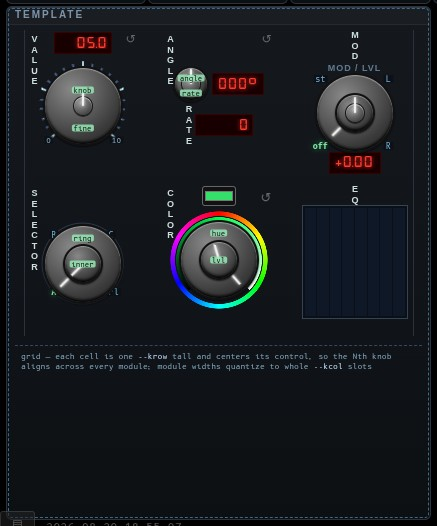
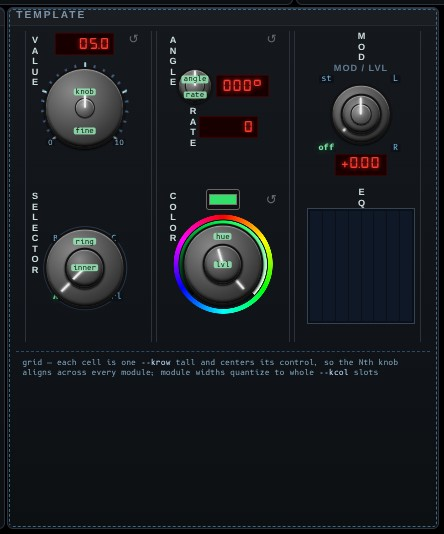
panel: the standard cell template is keyed on the grid, so every module gets it
Seven places in the panel build a .punit-grid of standard cells through the one
buildParamUnit — Parameters, MOD, EQ, Section, Spectro, Analysis and the
turtle's Physics. The CSS that IS that standard cell named three of them, by id
and by class. The other four were built by the same function and then styled by
nothing.

What that looked like in the Section module: its cells came out 106x186 and
position:static instead of 116x160 and relative, so the rules that pin the label
to the top-left and the reset to the top-right had nothing to position against
and both fell into normal flow — the label at x=48 and the reset button at x=46,
drawn on top of each other. The Spectro module was the same, 106x176 and static,
and nobody had reported that one.

Keying on .punit-grid instead of on #params is what makes "the standard cell"
true of every cell that is one. The grid is what all seven builders create, so a
new module cannot be added to the panel and left out of the template — which is
the failure this had, twice, quietly.

Section, Spectro, Physics, Parameters, MOD and EQ now all measure 116x160 and
relative, with the label at 4 and the reset at 99, and no cell has its label
overlapping its reset.

Also: the two Console dropdowns showed nothing until the pointer was over a row.
.selwrap>.selwin sets color:transparent so the marquee overlay can show the
current name instead of the native text — but color cascades into the <option>s,
[…]

diff --git a/pkg/attractor/panel.css b/pkg/attractor/panel.css
@@ -29,7 +29,7 @@ body.panel-raised #dock-controls{z-index:var(--z-panel-raised)!important;}
 .rst:hover{color:#fff;}
 /* Standard cell template: the reset button sits on the header line (with the
    LED readout), pinned to the cell's top-right — not tucked in the knob corner. */
-#params .punit>.rst,.vmcell>.rst,.axcol.axrot .rst{position:absolute;top:3px;right:3px;bottom:auto;left:auto;z-index:6;font-size:calc(12px*var(--kscale,1));line-height:1;}
+.punit-grid .punit>.rst,.vmcell>.rst,.axcol.axrot .rst{position:absolute;top:3px;right:3px;bottom:auto;left:auto;z-index:6;font-size:calc(12px*var(--kscale,1));line-height:1;}
 /* .rstcell is the same template for a selector cell that is not a .vmcell:
    .pcell is not a positioned ancestor by default, so the cell has to become
    one before its reset button can be pinned to the corner like every other. */
@@ -438,8 +438,21 @@ body.panel-raised #dock-controls{z-index:var(--z-panel-raised)!important;}
 .sect>.sect-hdr{cursor:grab;}
 .sect.sect-dragging{opacity:.55;outline:1px dashed var(--led,#c33);}
 .sect.sect-dragging>.sect-hdr{cursor:grabbing;}
-#params .punit,.physmodule .punit{}
 .modmodule .u-modlbl{display:none;}
+/* KEYED ON THE GRID, NOT ON #params.
+
+   These rules ARE the standard cell: a fixed 116x160 box, the label pinned to
+   its top-left, the numeric centered over the knob, the reset in the top-right
+   corner. Seven places in the panel build a .punit-grid of exactly these cells
+   — Parameters, MOD, EQ, Section, Spectro, Analysis and the turtle's physics —
+   and the selector used to name three of them by id and class. The other four
+   were built by the same buildParamUnit and then styled by nothing: the Section
+   module's cells came out position:static, which left its labels and its reset
+   buttons in normal flow and drawn on top of each other at x=48 and x=46.
+
+   The grid is what every one of those builders creates, so keying on it is what
+   makes "the standard cell template" true of every cell that is one, rather
+   than of the ones somebody remembered to add to a list. */
 /* Row alignment across a primary/MOD/EQ triad: every cell is a uniform height
    with its label pinned to the top and numeric/step pinned to the bottom, so the
    CONTROL (knob or EQ strip) is the only in-flow item and centers at the same Y
@@ -447,8 +460,8 @@ body.panel-raised #dock-controls{z-index:var(--z-panel-raised)!important;}
 /* Fixed cell width (= the grid track) so the label pins to the far-left and the
    LED centers over the knob exactly like the View / Position cells, instead of
    collapsing to content width (which crowded the label against the LED). */
-#params .punit,.modmodule .punit,.eqmodule .punit{position:relative;height:calc(160px*var(--kscale,1));width:calc(116px*var(--kscale,1));justify-content:center;box-sizing:border-box;}
-#params .punit>.punit-top,.modmodule .punit>.u-lbl,.eqmodule .punit>.u-lbl{position:absolute;top:2px;left:0;right:0;margin:0;z-index:3;}
+.punit-grid .punit{position:relative;height:calc(160px*var(--kscale,1));width:calc(116px*var(--kscale,1));justify-content:center;box-sizing:border-box;}
+.punit-grid .punit>.punit-top,.punit-grid .punit>.u-lbl{position:absolute;top:2px;left:0;right:0;margin:0;z-index:3;}
 /* A card built by hand rather than by buildParamUnit puts its label straight
    into the .punit with no .punit-top around it — the readouts (corr, dly, meas,
    rqa, rt60, λ, trend) and the FVF selector cards all do. Without this they
@@ -459,16 +472,16 @@ body.panel-raised #dock-controls{z-index:var(--z-panel-raised)!important;}
    doing the same, so the fallback is correct rather than something each new
    hand-built card has to remember a wrapper for. .plabel too: a punit should
    carry a .u-lbl, but one that does not still has to line up. */
-#params .punit>.u-lbl,#params .punit>.plabel{position:absolute;top:3px;left:4px;right:auto;margin:0;z-index:3;transform:none;}
+.punit-grid .punit>.u-lbl,.punit-grid .punit>.plabel{position:absolute;top:3px;left:4px;right:auto;margin:0;z-index:3;transform:none;}
 /* params: label stacked above the numeric LED, both centered over the knob's axis
    (full width so centering is on the cell, not collapsed to content width). */
 /* Label to the LEFT of the LED (like the View module), LED centered over the
    knob: pin the label to the cell's left edge, center the numeric. Uniform
    across params / Position / Display. */
-#params .punit>.punit-top{flex-direction:row;align-items:center;justify-content:center;gap:0;width:auto!important;}
-#params .punit>.punit-top>.u-lbl{position:absolute;left:4px;top:3px;transform:none;}
-#params .punit>.punit-top>.numin{position:static;}
-#params .punit>.u-step{position:absolute;bottom:2px;left:50%;transform:translateX(-50%);}
+.punit-grid .punit>.punit-top{flex-direction:row;align-items:center;justify-content:center;gap:0;width:auto!important;}
+.punit-grid .punit>.punit-top>.u-lbl{position:absolute;left:4px;top:3px;transform:none;}
+.punit-grid .punit>.punit-top>.numin{position:static;}
+.punit-grid .punit>.u-step{position:absolute;bottom:2px;left:50%;transform:translateX(-50%);}
 .modmodule .u-modval{position:absolute;bottom:2px;left:50%;transform:translateX(-50%);}
 .punit-mod{margin:0!important;}
 .punit-mod .knob-ring-circle{display:none;} /* no guide circle on the small mod knobs */
@@ -669,6 +682,22 @@ body.panel-raised #dock-controls{z-index:var(--z-panel-raised)!important;}
    hidden and the overlay is click-through so the select still opens on click. */
 .selwrap{position:relative;display:inline-block;}
 .selwrap>.selwin{color:transparent!important;text-shadow:none!important;}
+/* THE OPTIONS KEEP THEIR COLOR.
+
+   That transparent above hides the closed control's own text so the marquee can
+   show the name instead — but `color` cascades into the <option>s, and the open
+   dropdown is painted by the browser with each option's color. So the list came
+   up as a column of invisible rows, and an entry only appeared when the pointer
+   reached it and the selection highlight drew behind it. Both Console
+   dropdowns, which are the two the catalog is navigated by.
+
+   Naming the options is the whole fix: the closed control still takes its
+   transparent from the rule above, so the marquee is not doubled. Each matches
+   its own marquee — category blue, model green — so an open list is the color
+   of the readout it came from. */
+.selwrap>.selwin>option,.selwrap>.selwin>optgroup{color:#cfe6ff;text-shadow:none;}
+#model-sel-grp .csel-cat>option,#model-sel-grp .csel-cat>optgroup{color:#8fd0ff;}
+#model-sel-grp .csel-model>option,#model-sel-grp .csel-model>optgroup{color:#7fe0a0;}
 .selmarq{position:absolute;left:0;right:16px;top:0;bottom:0;display:flex;align-items:center;overflow:hidden;pointer-events:none;padding-left:6px;white-space:nowrap;font-family:"Courier New",monospace;font-weight:bold;font-size:calc(11px*var(--kscale,1));letter-spacing:.5px;color:#7fe0a0;text-shadow:0 0 4px #2a9a5a;}
 .selmarq>span{display:inline-block;}
 .selmarq.scroll>span{animation:selmarq 5s ease-in-out infinite alternate;}
